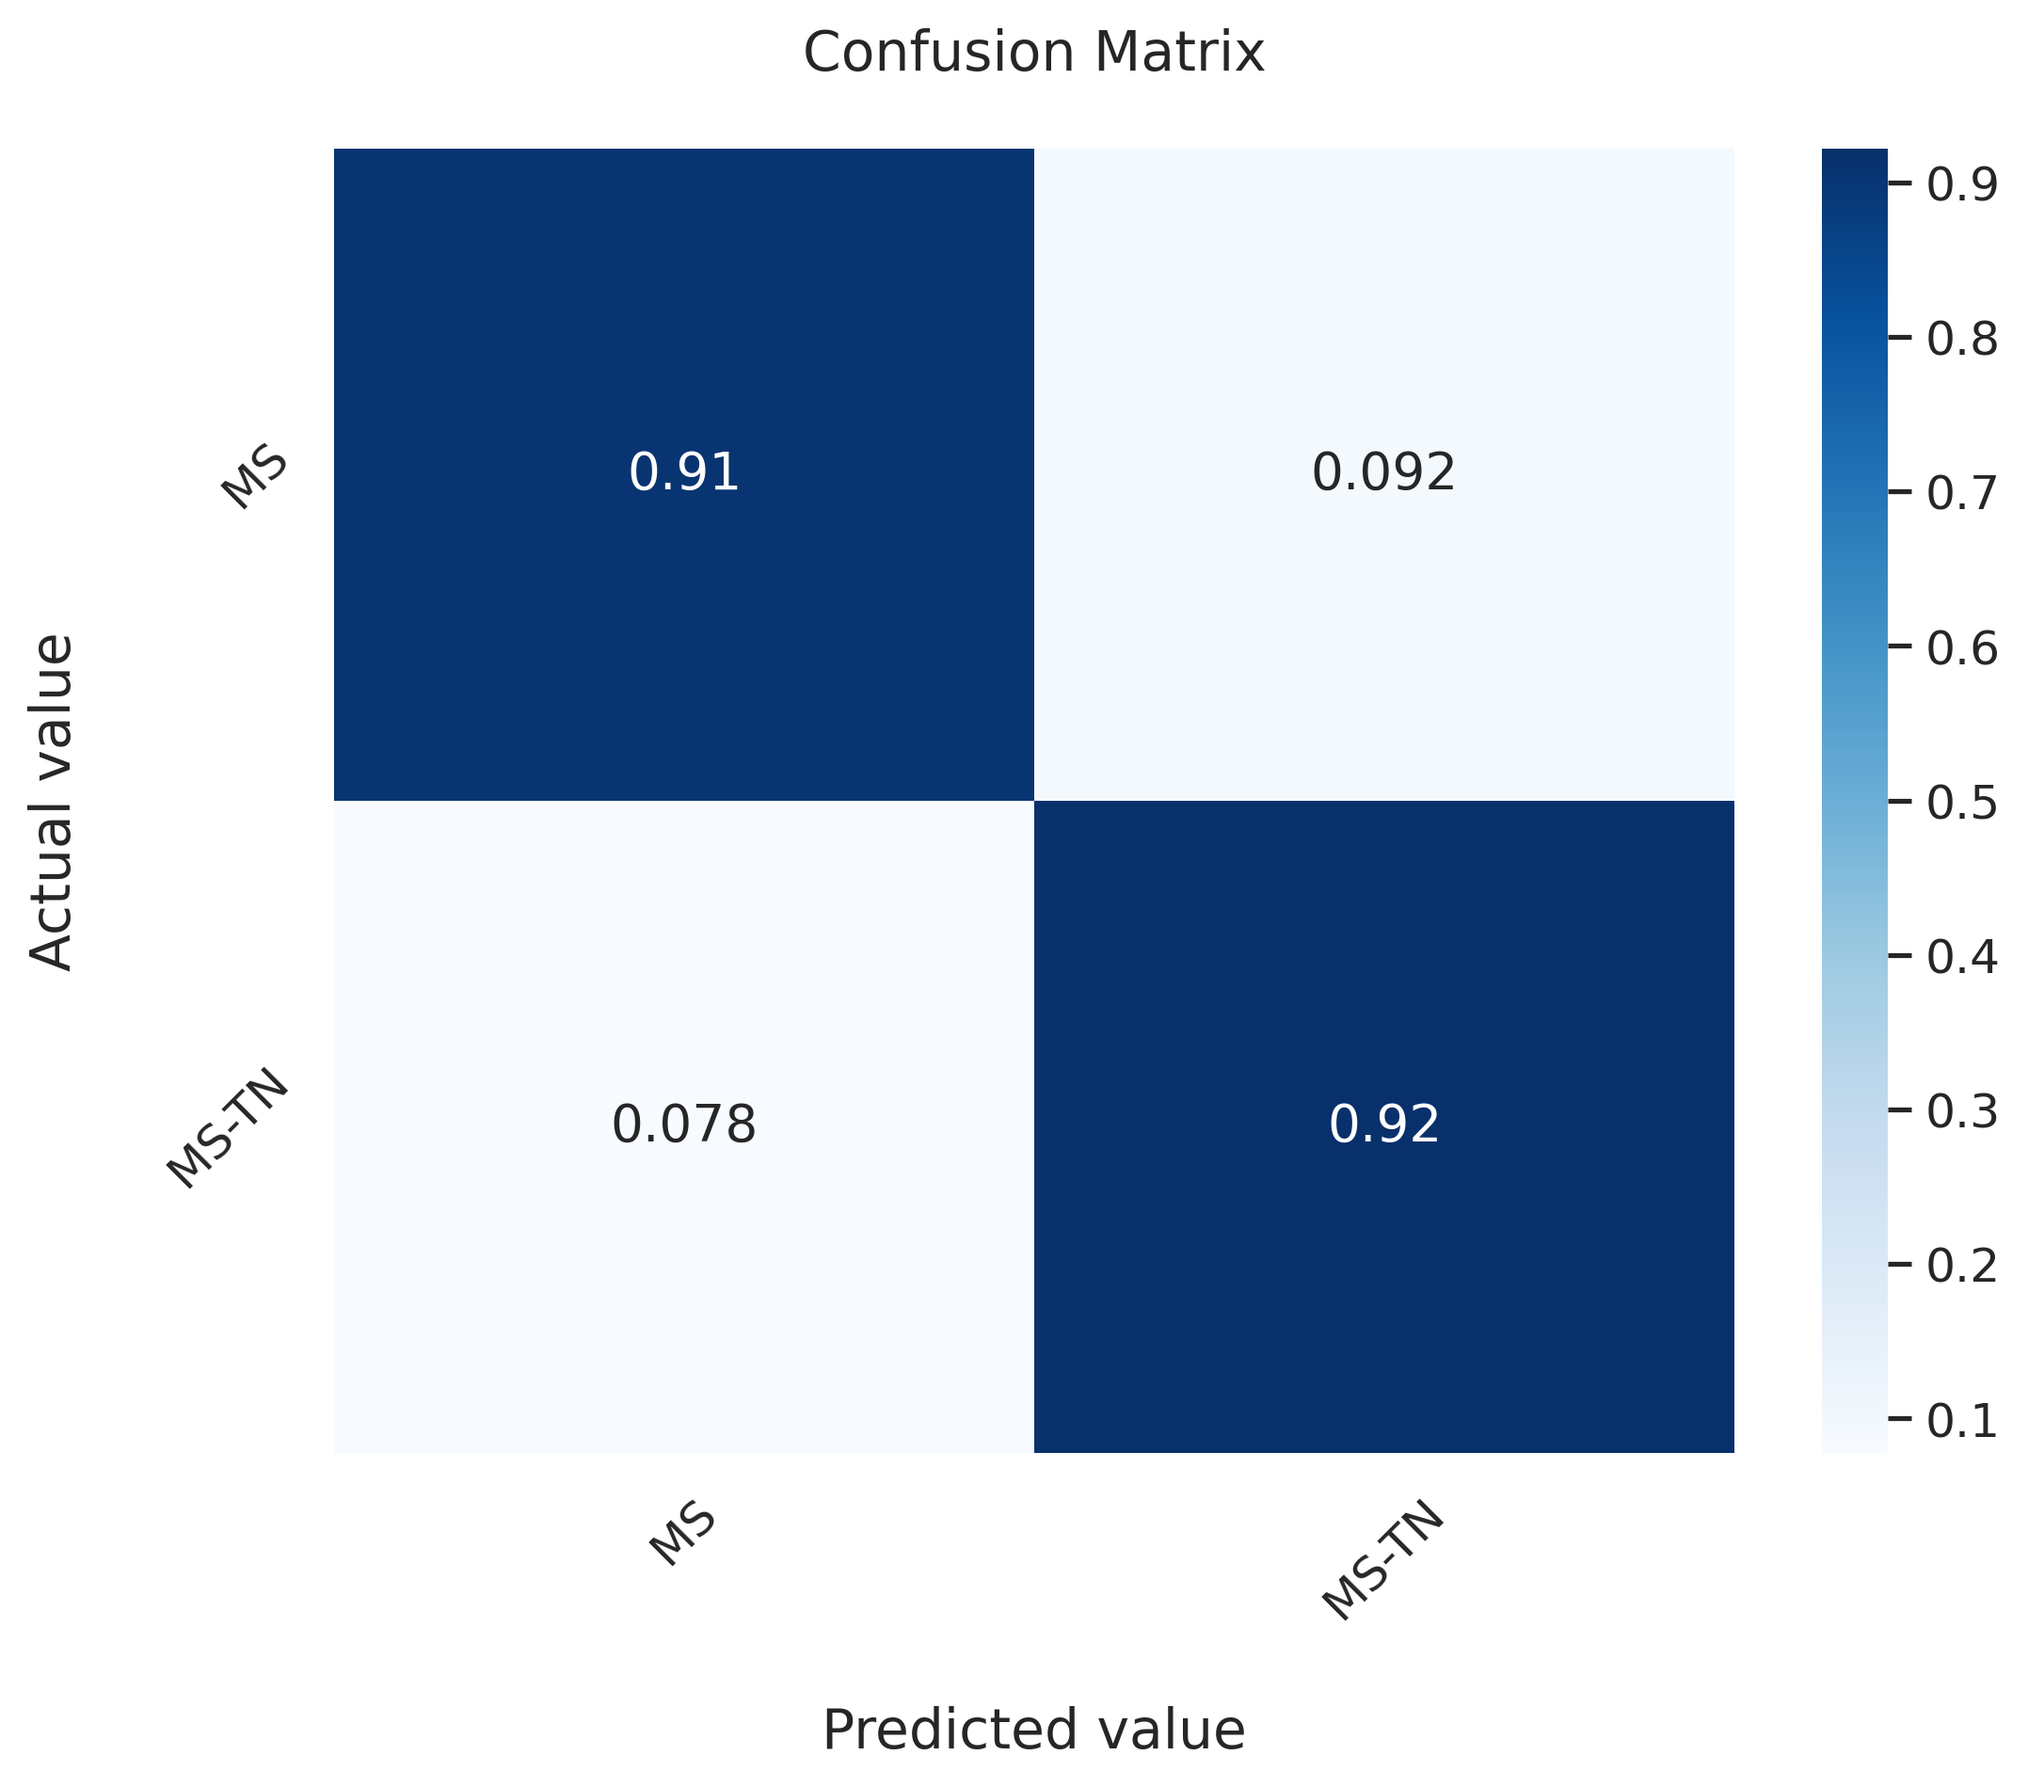
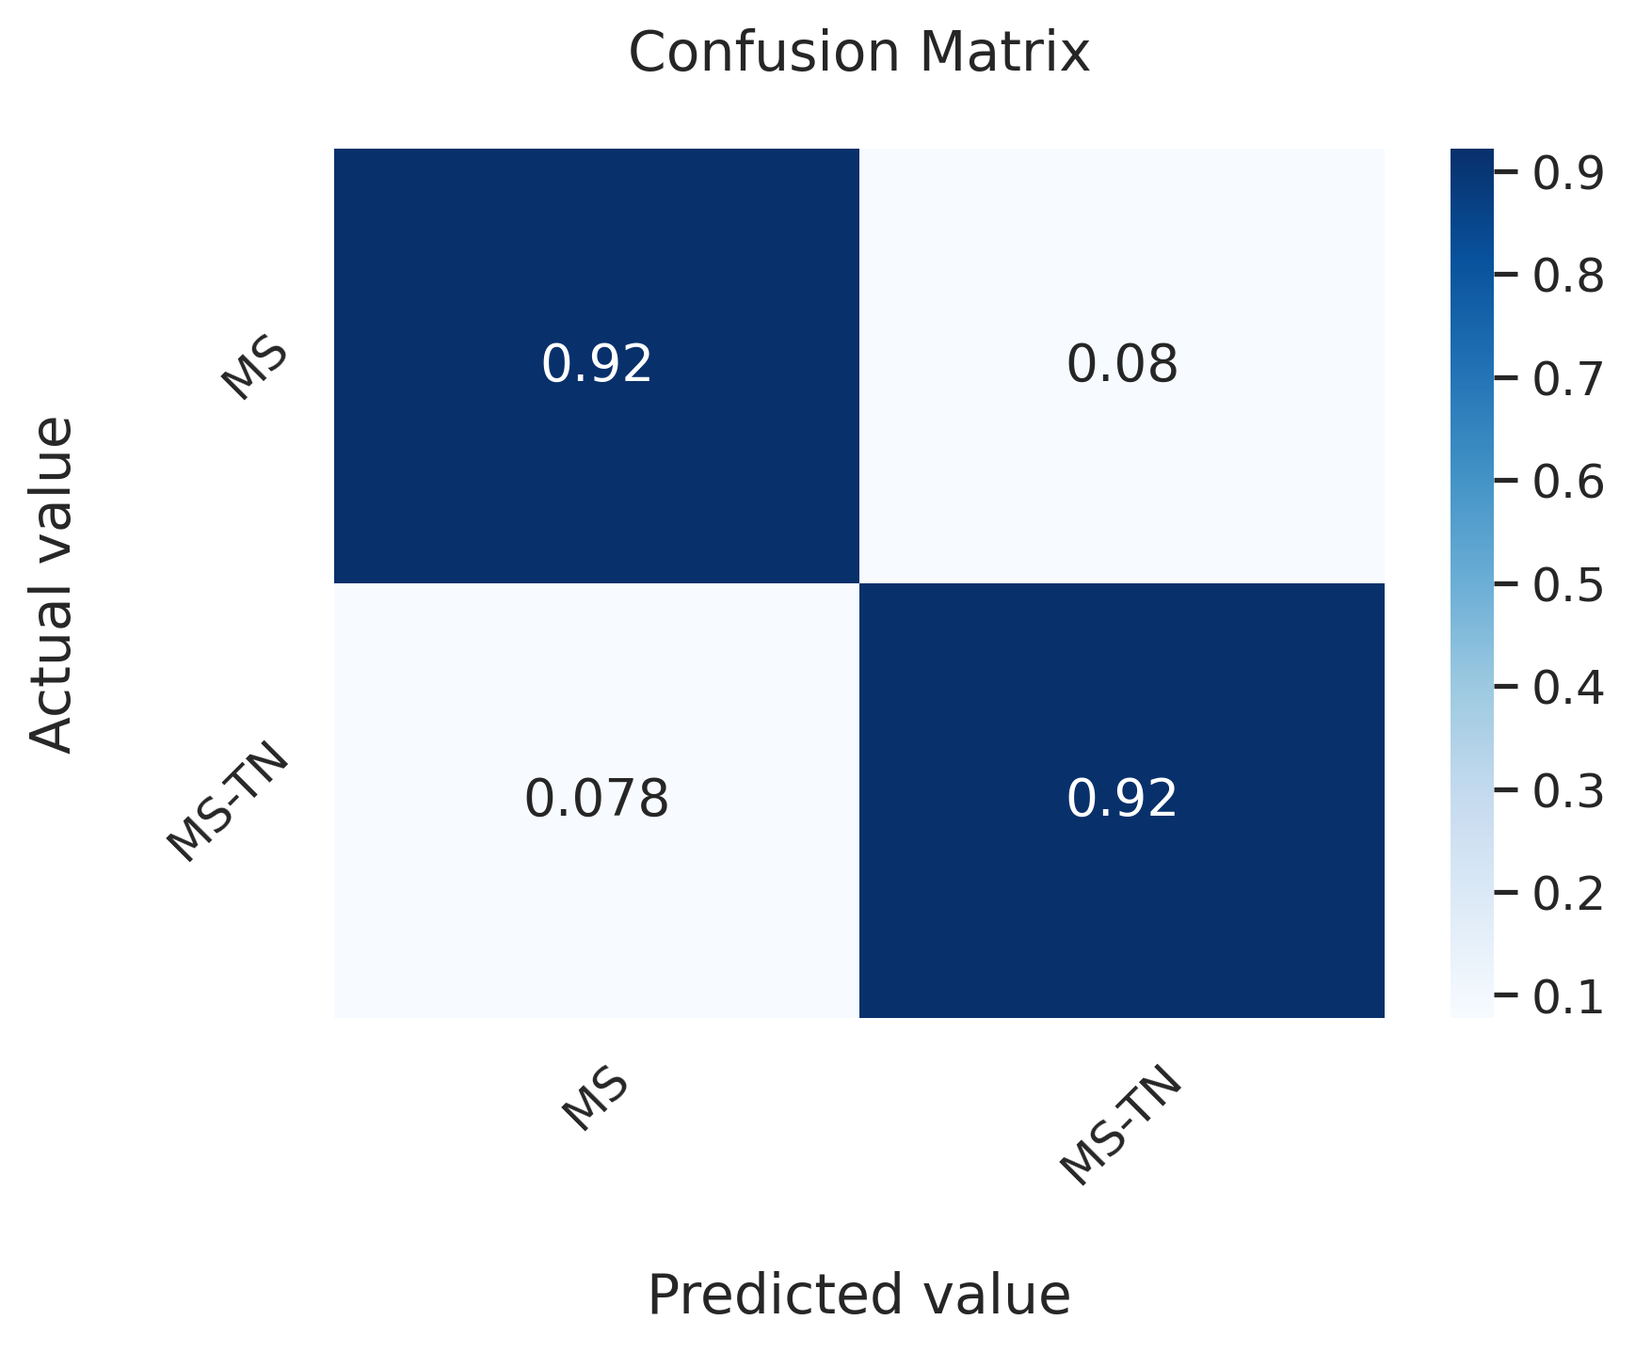
updated run

diff --git a/utils/confusion_matrix.py b/utils/confusion_matrix.py
@@ -10,7 +10,7 @@ from sklearn.preprocessing import LabelBinarizer
 
 def plot_confusion_matrix(conf_matrix, class_names, savefig = 'confusion_matrix.png'):
 
-    plt.figure(figsize=(8,6), dpi=100)
+    plt.figure(figsize=(6,4), dpi=300)
     sns.set(font_scale = 1.1)
 
     ax = sns.heatmap(conf_matrix, annot=True, cmap="Blues")
@@ -31,7 +31,7 @@ def plot_confusion_matrix(conf_matrix, class_names, savefig = 'confusion_matrix.
 
 
 def plot_auc(fpr, tpr, roc_auc, class_names, savefig = 'roc.png'):
-    plt.figure()
+    plt.figure(figsize=(6,4), dpi=300)
     lw = 2
     plt.plot(fpr, tpr, color='darkorange',
              lw=lw, label='ROC curve (area = %0.2f)' % roc_auc)
@@ -119,7 +119,7 @@ def plot_roc_auc(y_test, y_proba, class_names, colors, savefig = 'roc.png'):
     tpr["micro"] = mean_tpr
 
     roc_auc["micro"] = auc(fpr["micro"], tpr["micro"])
-    fig, ax = plt.subplots(figsize=(10, 10))
+    fig, ax = plt.subplots(figsize=(6, 6))
     sns.axes_style("white")
     ax = sns.lineplot(x=[0, 1], y=[0, 1], color='grey', lw=2, linestyle='--', alpha=0.6, zorder = 2)
     ax.set_xlim([-0.02, 1.02])
